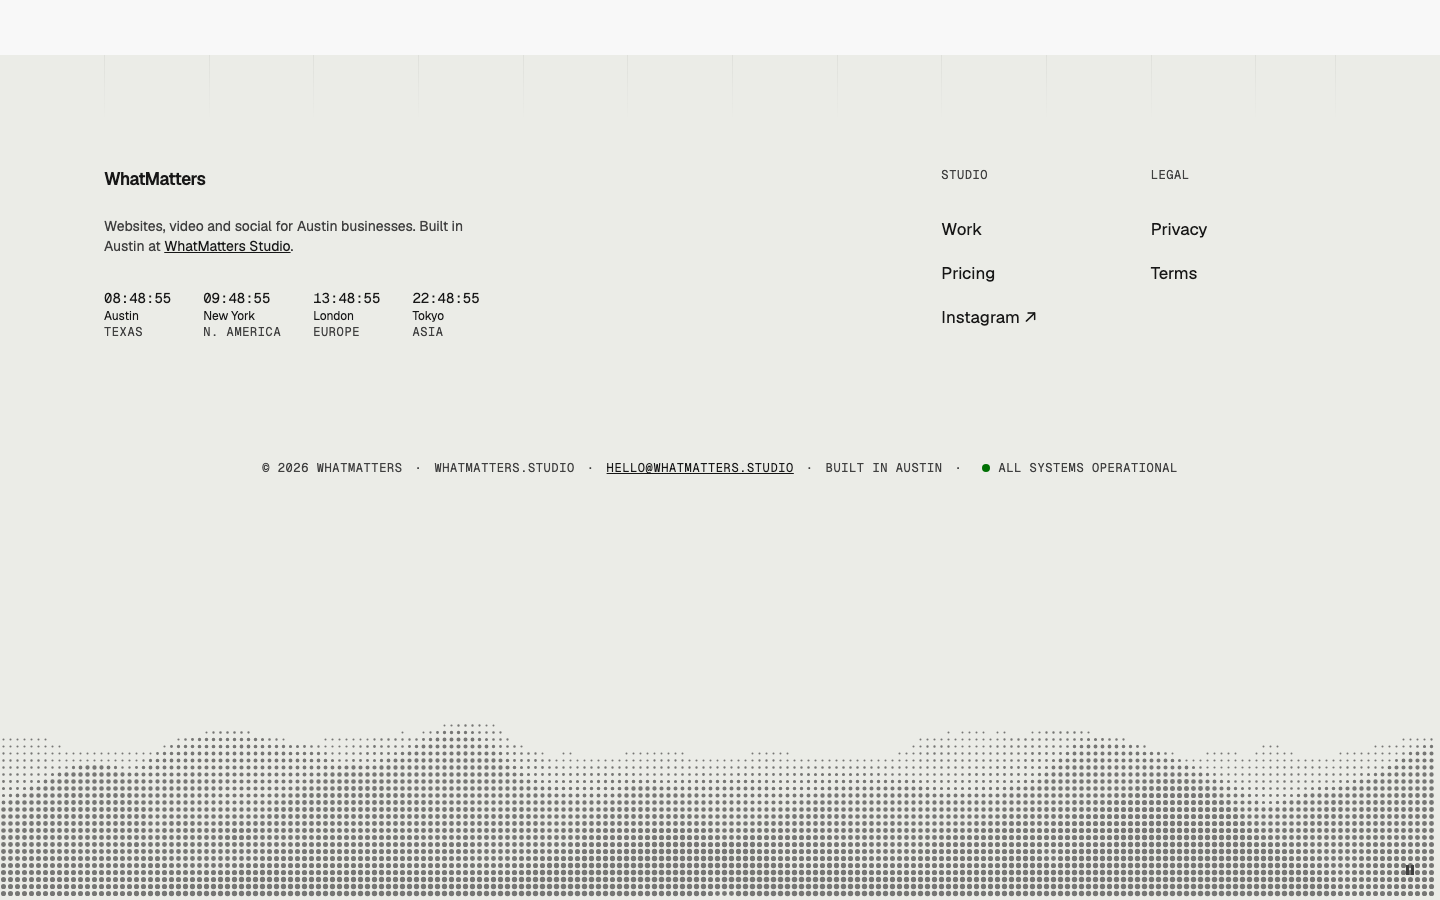
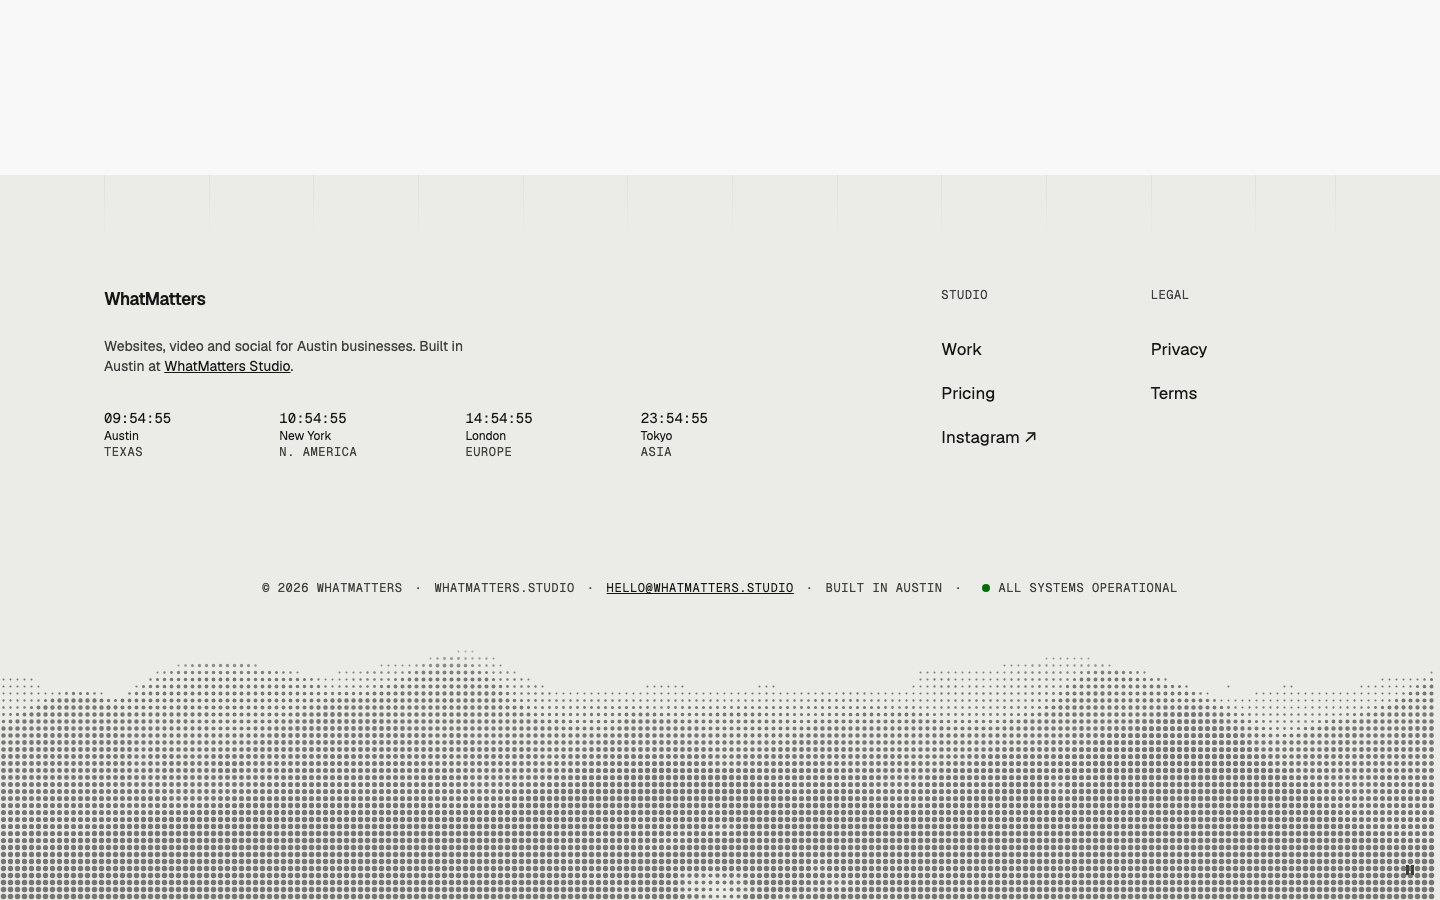
Footer — Landscape: tighter gap above the band (shorter band, bottom-aligned), clocks spread space-between

diff --git a/patterns/footer/landscape/FooterLandscape.tsx b/patterns/footer/landscape/FooterLandscape.tsx
@@ -61,7 +61,7 @@ const factsClasses =
   "col-span-full mt-12 flex flex-col gap-2 text-muted type-eyebrow md:mt-16 md:flex-row md:flex-wrap md:justify-center md:gap-x-3 lg:mt-24 " +
   "[&_a]:text-fg [&_a]:underline";
 const factClasses = "whitespace-nowrap md:[&:not(:first-child)]:before:mr-3 md:[&:not(:first-child)]:before:content-['·'_/_'']";
-const bandWrapClasses = "relative mt-4 w-full md:mt-12 lg:mt-16";
+const bandWrapClasses = "relative mt-2 w-full md:mt-4 lg:mt-6";
 const endClasses = "h-12 md:h-16";
 
 export function FooterLandscape({ brand, pitch, clocks, links = [], facts = [], status, moment, className }: FooterLandscapeProps) {
@@ -195,7 +195,7 @@ export function FooterClocks({ cities }: { cities: FooterClock[] }) {
     [cities, reduce],
   );
   return (
-    <ul className="grid grid-cols-2 gap-6 sm:flex sm:flex-wrap sm:gap-8">
+    <ul className="grid grid-cols-2 gap-6 sm:flex sm:flex-wrap sm:justify-between">
       {cities.map((c, i) => (
         <li key={c.city} className="flex flex-col">
           <span className="sr-only" suppressHydrationWarning>
@@ -235,7 +235,7 @@ export interface FooterAsciiBandProps {
 
 const classicRamp = " .:-=+*#%@";
 /** Band height 220 / 300 / 360. */
-const bandClasses = "relative h-[220px] w-full md:h-[300px] lg:h-[360px]";
+const bandClasses = "relative h-[180px] w-full md:h-[240px] lg:h-[280px]";
 /** The drawing: text colour at 55% (45% dark), its top 20% fading into the paper. The toggle sits outside it, at full contrast. */
 const bandArtClasses =
   "absolute inset-0 text-fg opacity-55 [[data-theme=dark]_&]:opacity-45 " +

diff --git a/patterns/footer/landscape/example.tsx b/patterns/footer/landscape/example.tsx
@@ -40,7 +40,7 @@ export function FooterLandscapeExample(props: Partial<FooterLandscapeProps>) {
         ]}
         facts={["© 2026 WhatMatters", "whatmatters.studio", <a href="mailto:hello@whatmatters.studio">hello@whatmatters.studio</a>, "Built in Austin"]}
         status="All systems operational"
-        moment={<FooterAsciiBand src={`${base}local/footer-landscape.mp4`} focusY={0.72} />}
+        moment={<FooterAsciiBand src={`${base}local/footer-landscape.mp4`} focusY={1} />}
         {...props}
       />
     </div>

diff --git a/patterns/footer/landscape/README.md b/patterns/footer/landscape/README.md
@@ -39,7 +39,7 @@ import { FooterAsciiBand, FooterClocks, FooterLandscape } from "./FooterLandscap
 | `status` | ReactNode, optional | A green dot plus text at the end of the strip ("Status:" for screen readers) |
 | `moment` | slot, optional | The band at the bottom, usually `<FooterAsciiBand src poster? ramp? threshold? />`. Leave it out to end on the strip |
 
-`FooterAsciiBand`: `src` a looping landscape video (same-origin, or CORS), `poster` shown until the first frame and under reduced motion, `ramp` `"dots"` (default, a true halftone) or `"classic"` (ASCII characters), `threshold` (0–441, default 60) how far from the sky colour a pixel must be to get a dot, `focusY` (0–1, default 0.5) which part of the video sits in the band (put the ridgeline near the middle). It reads the sky as the top row's median colour, stretches the land's tones (smoothed over frames, so it doesn't pulse), drops the faintest haze, and flips the tone in dark mode. It draws in the text colour at 55% (45% in dark), 220 / 300 / 360px tall, the top 20% fading into the paper; pauses off-screen; and has a quiet pause toggle (a 44px button with a 12px glyph, "Pause background motion" for screen readers), since the loop runs past 5s (WCAG 2.2.2).
+`FooterAsciiBand`: `src` a looping landscape video (same-origin, or CORS), `poster` shown until the first frame and under reduced motion, `ramp` `"dots"` (default, a true halftone) or `"classic"` (ASCII characters), `threshold` (0–441, default 60) how far from the sky colour a pixel must be to get a dot, `focusY` (0–1, default 0.5) which part of the video sits in the band (put the ridgeline near the middle). It reads the sky as the top row's median colour, stretches the land's tones (smoothed over frames, so it doesn't pulse), drops the faintest haze, and flips the tone in dark mode. It draws in the text colour at 55% (45% in dark), 180 / 240 / 280px tall, the top 20% fading into the paper; pauses off-screen; and has a quiet pause toggle (a 44px button with a 12px glyph, "Pause background motion" for screen readers), since the loop runs past 5s (WCAG 2.2.2).
 
 ## Knobs
 
